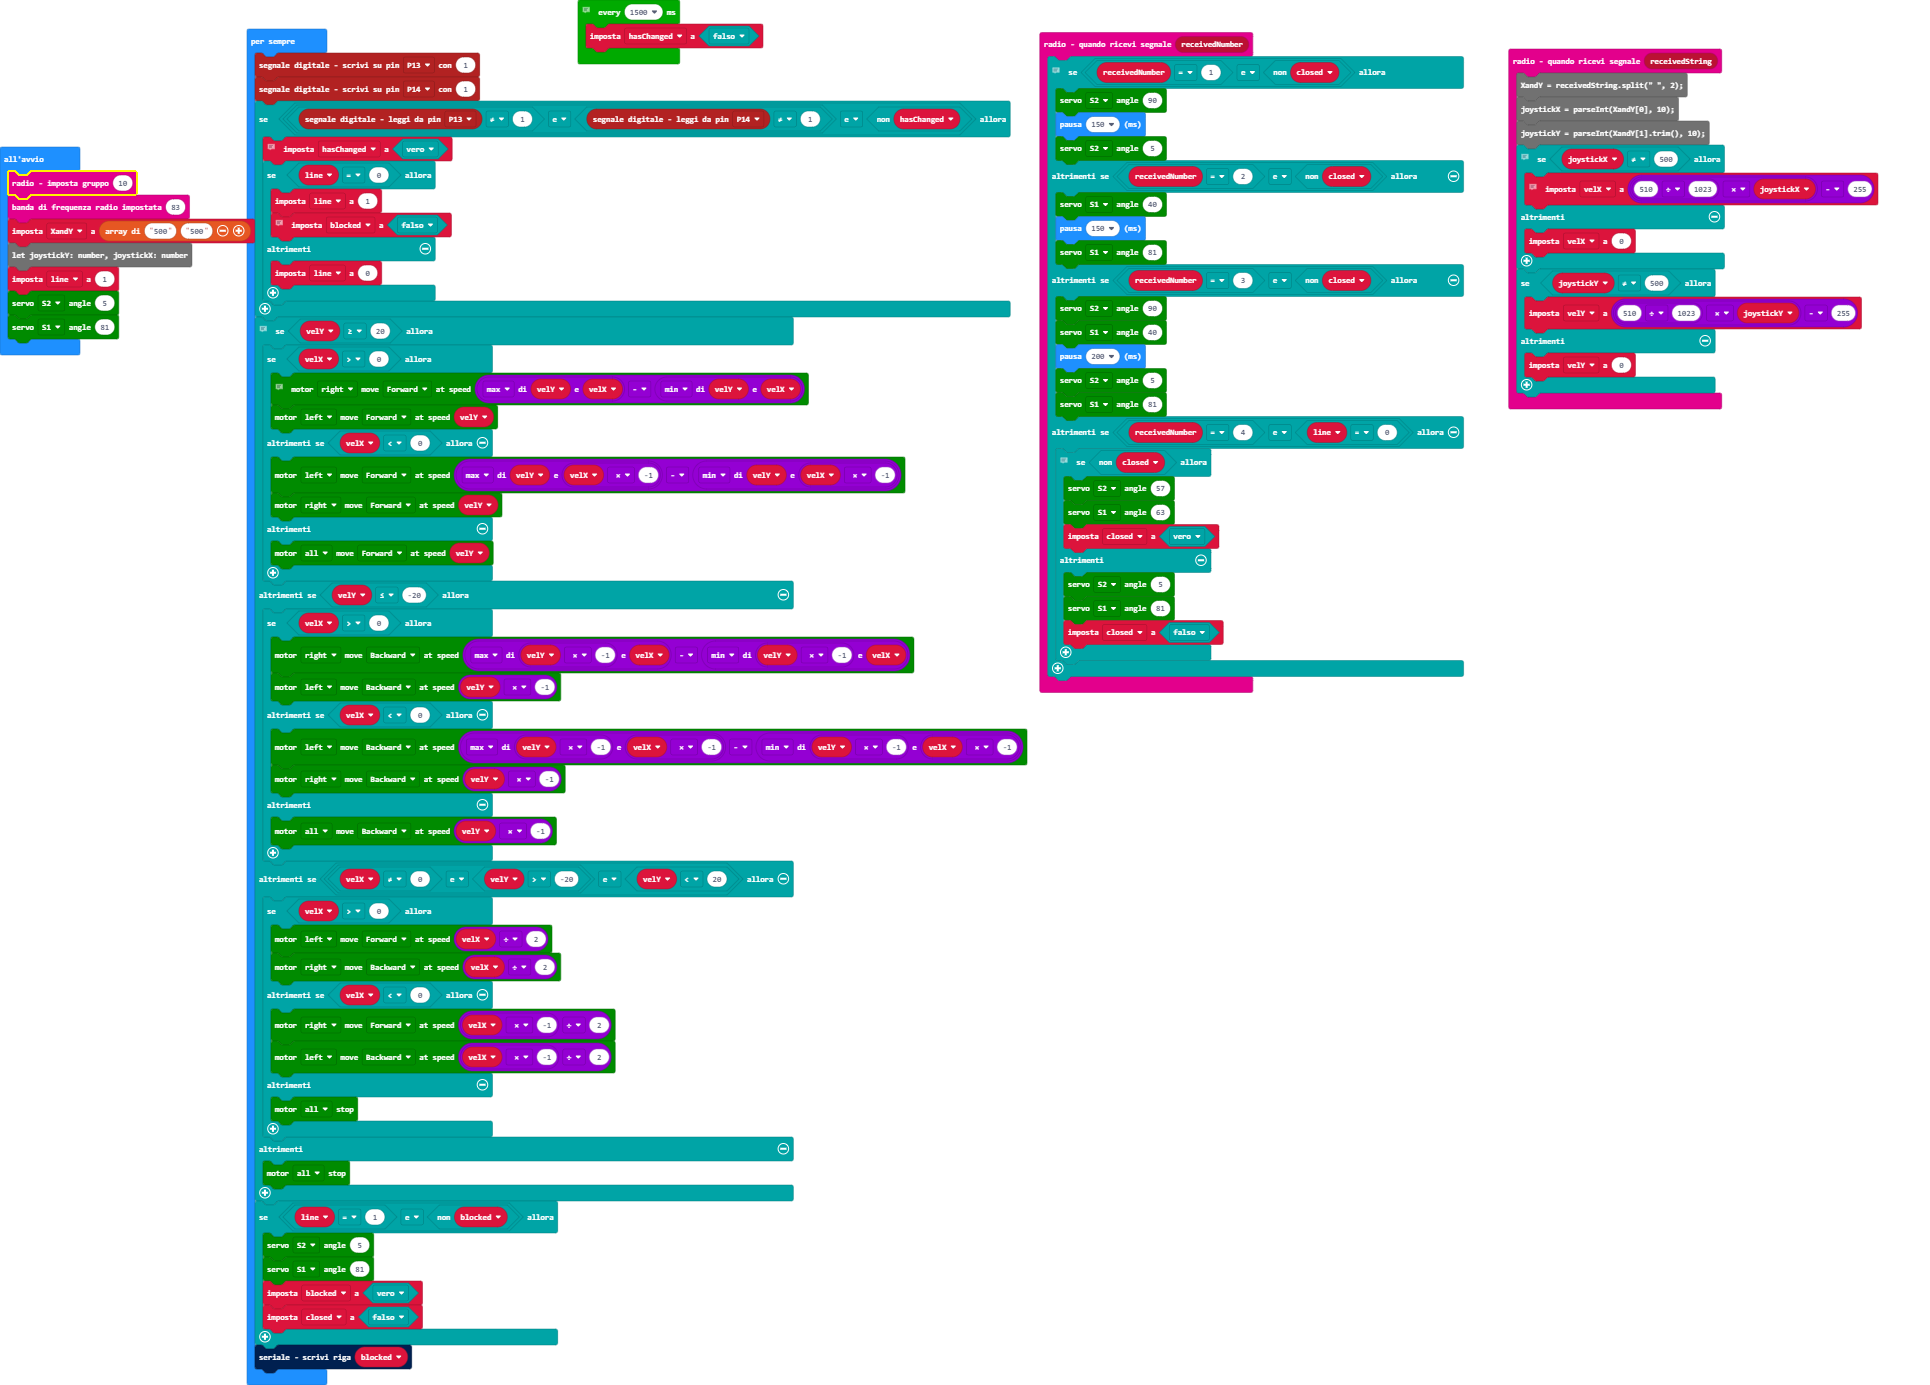
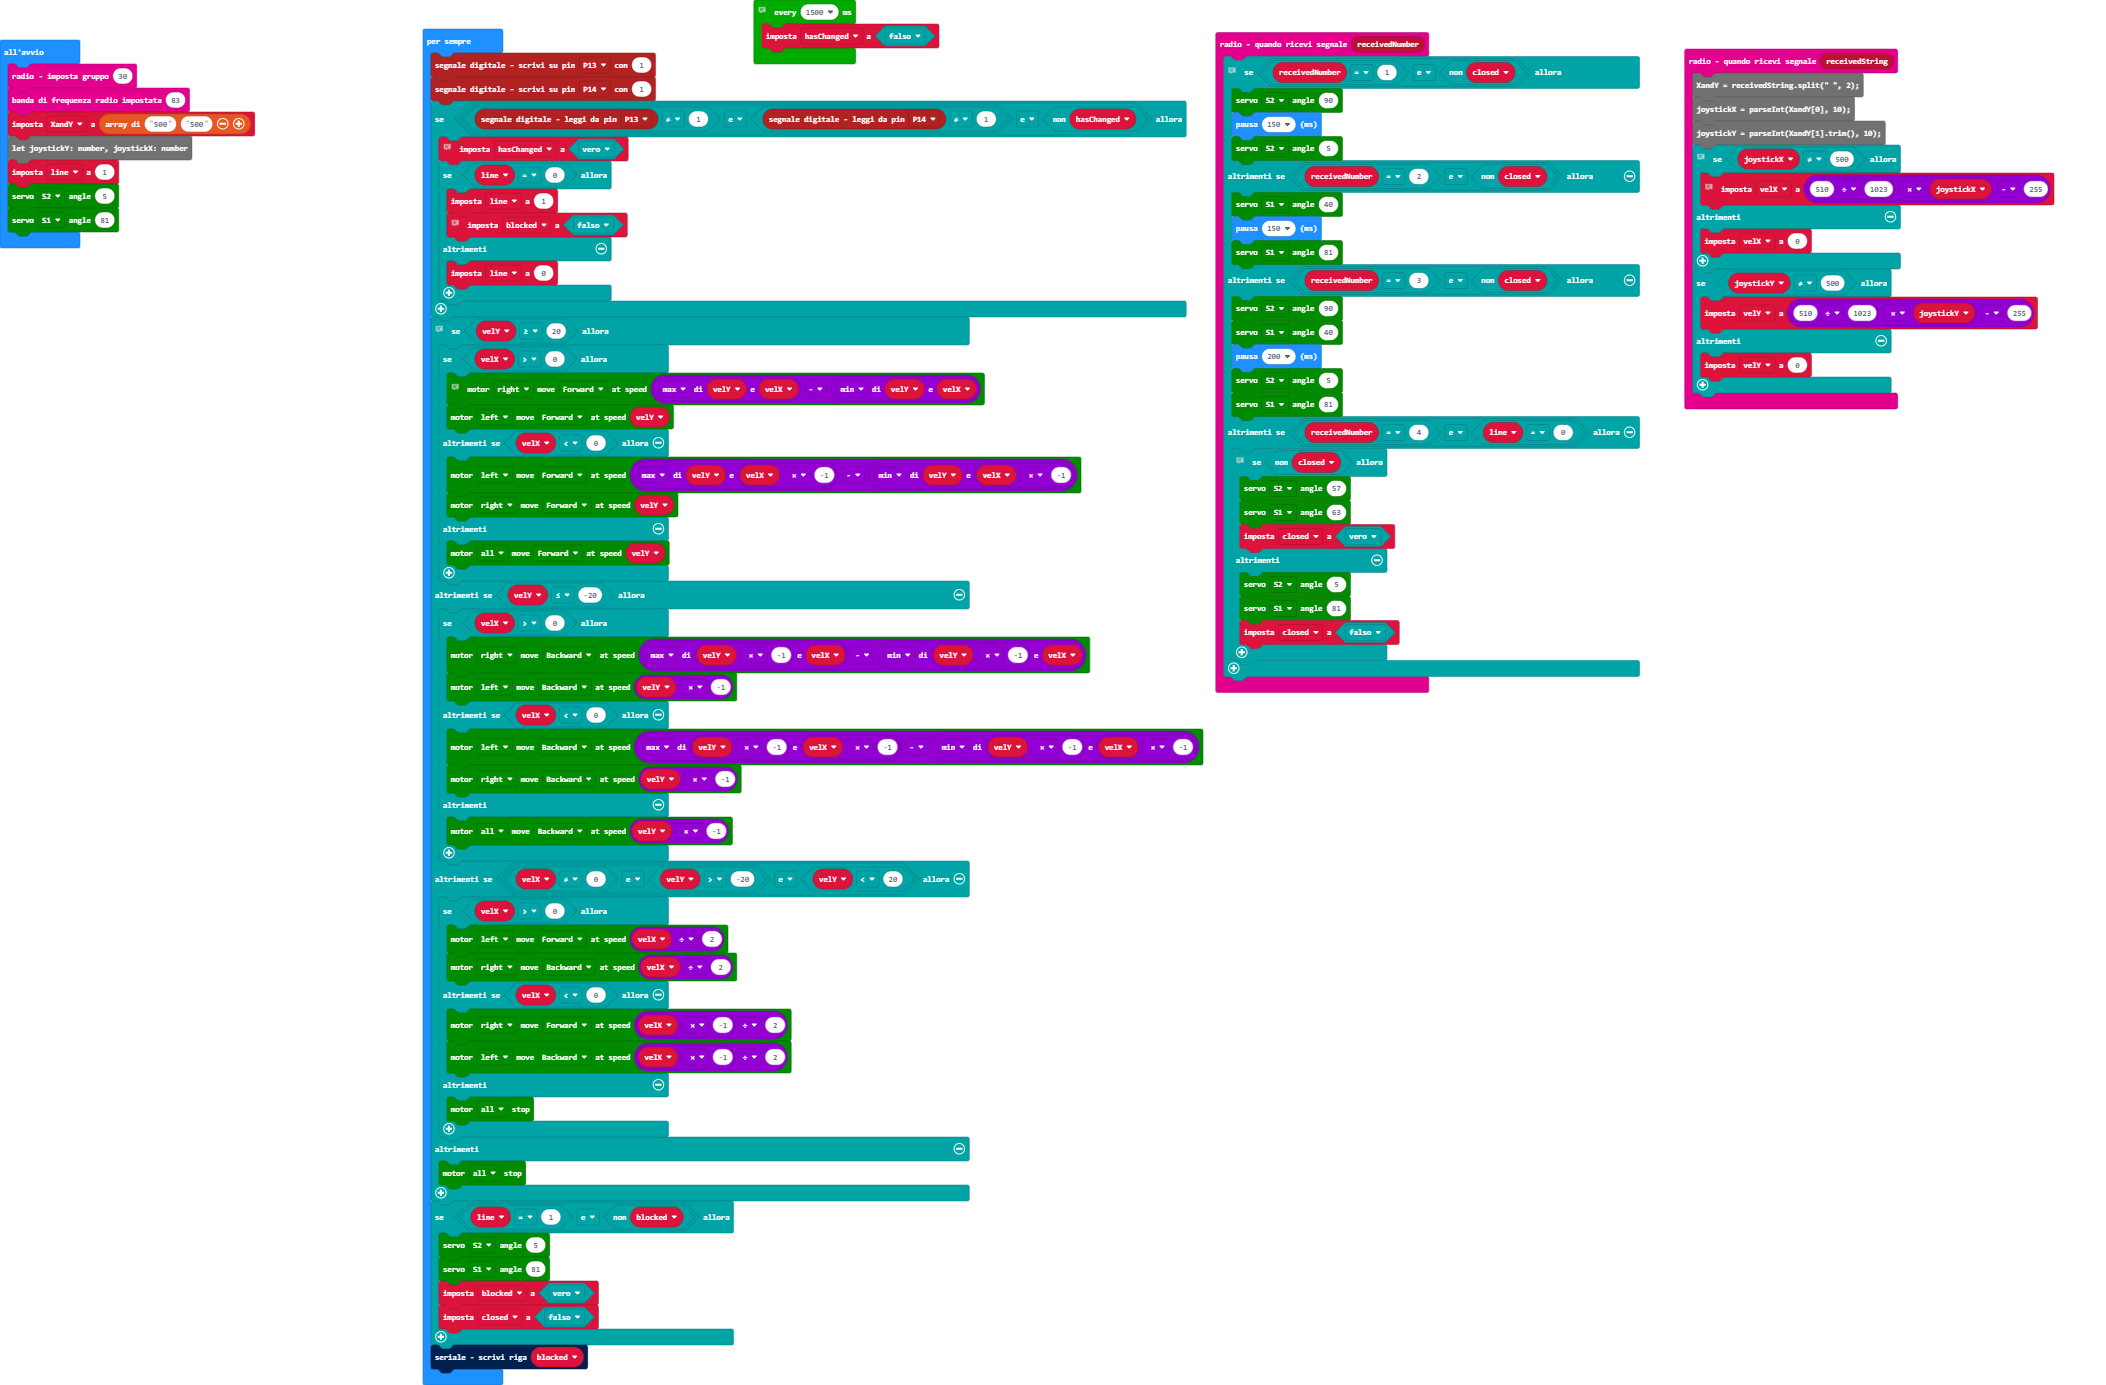
Aggiorna main.blocks, main.ts

Changed region(s): [[0.0, 0.0, 0.9948, 1.0], [0.4041, 0.8072, 0.4663, 0.8693], [0.7461, 0.4657, 0.7772, 0.4968]]

diff --git a/main.ts b/main.ts
@@ -68,7 +68,7 @@ let velY = 0
 let velX = 0
 let closed = false
 let line = 0
-radio.setGroup(10)
+radio.setGroup(30)
 radio.setFrequencyBand(83)
 let XandY = ["500", "500"]
 let joystickY: number, joystickX: number
